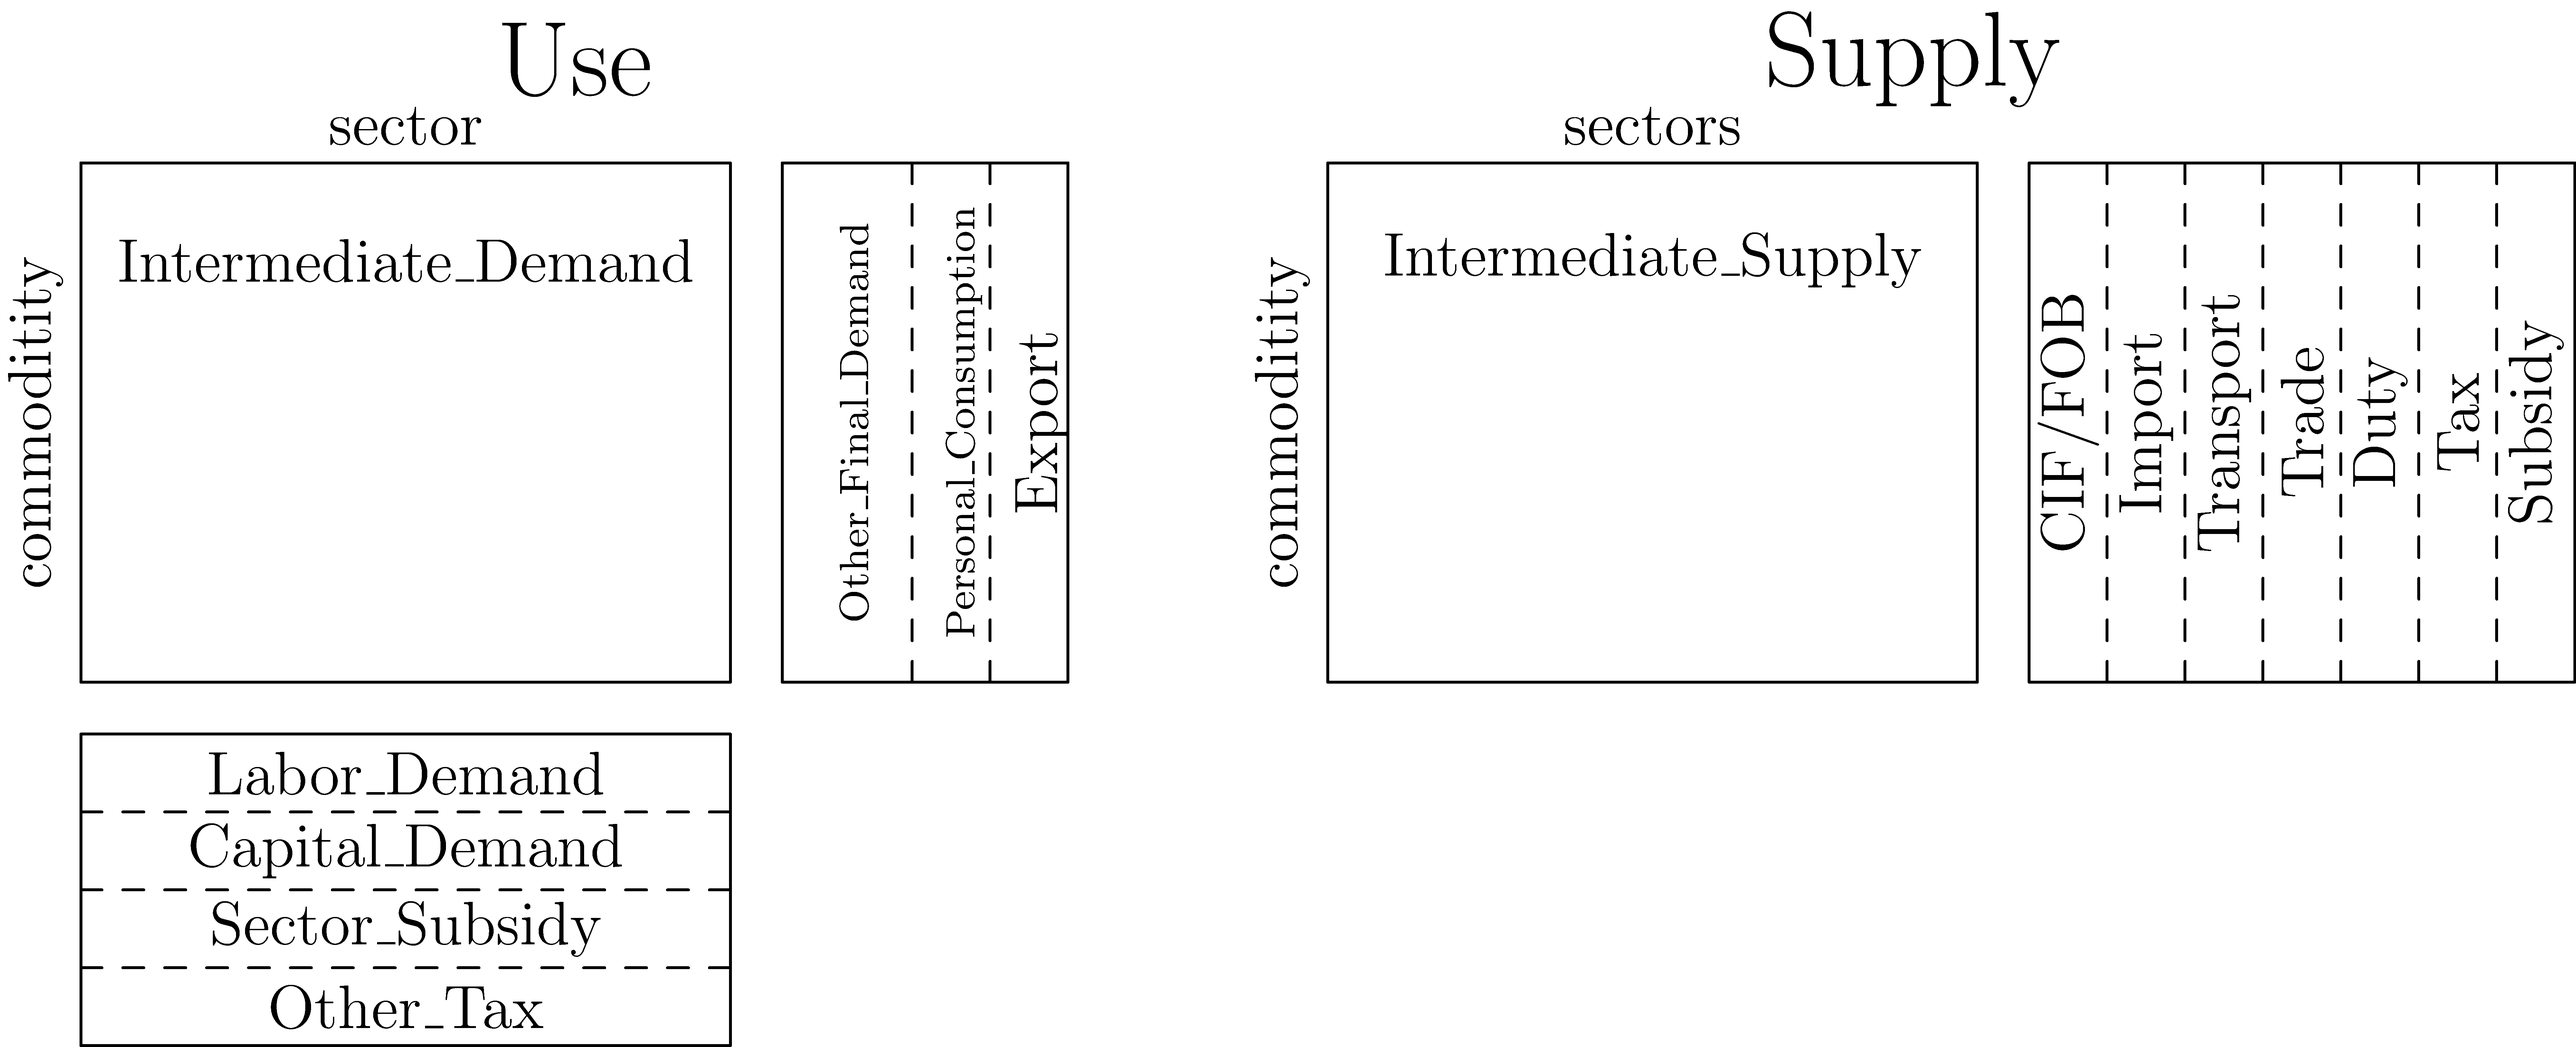
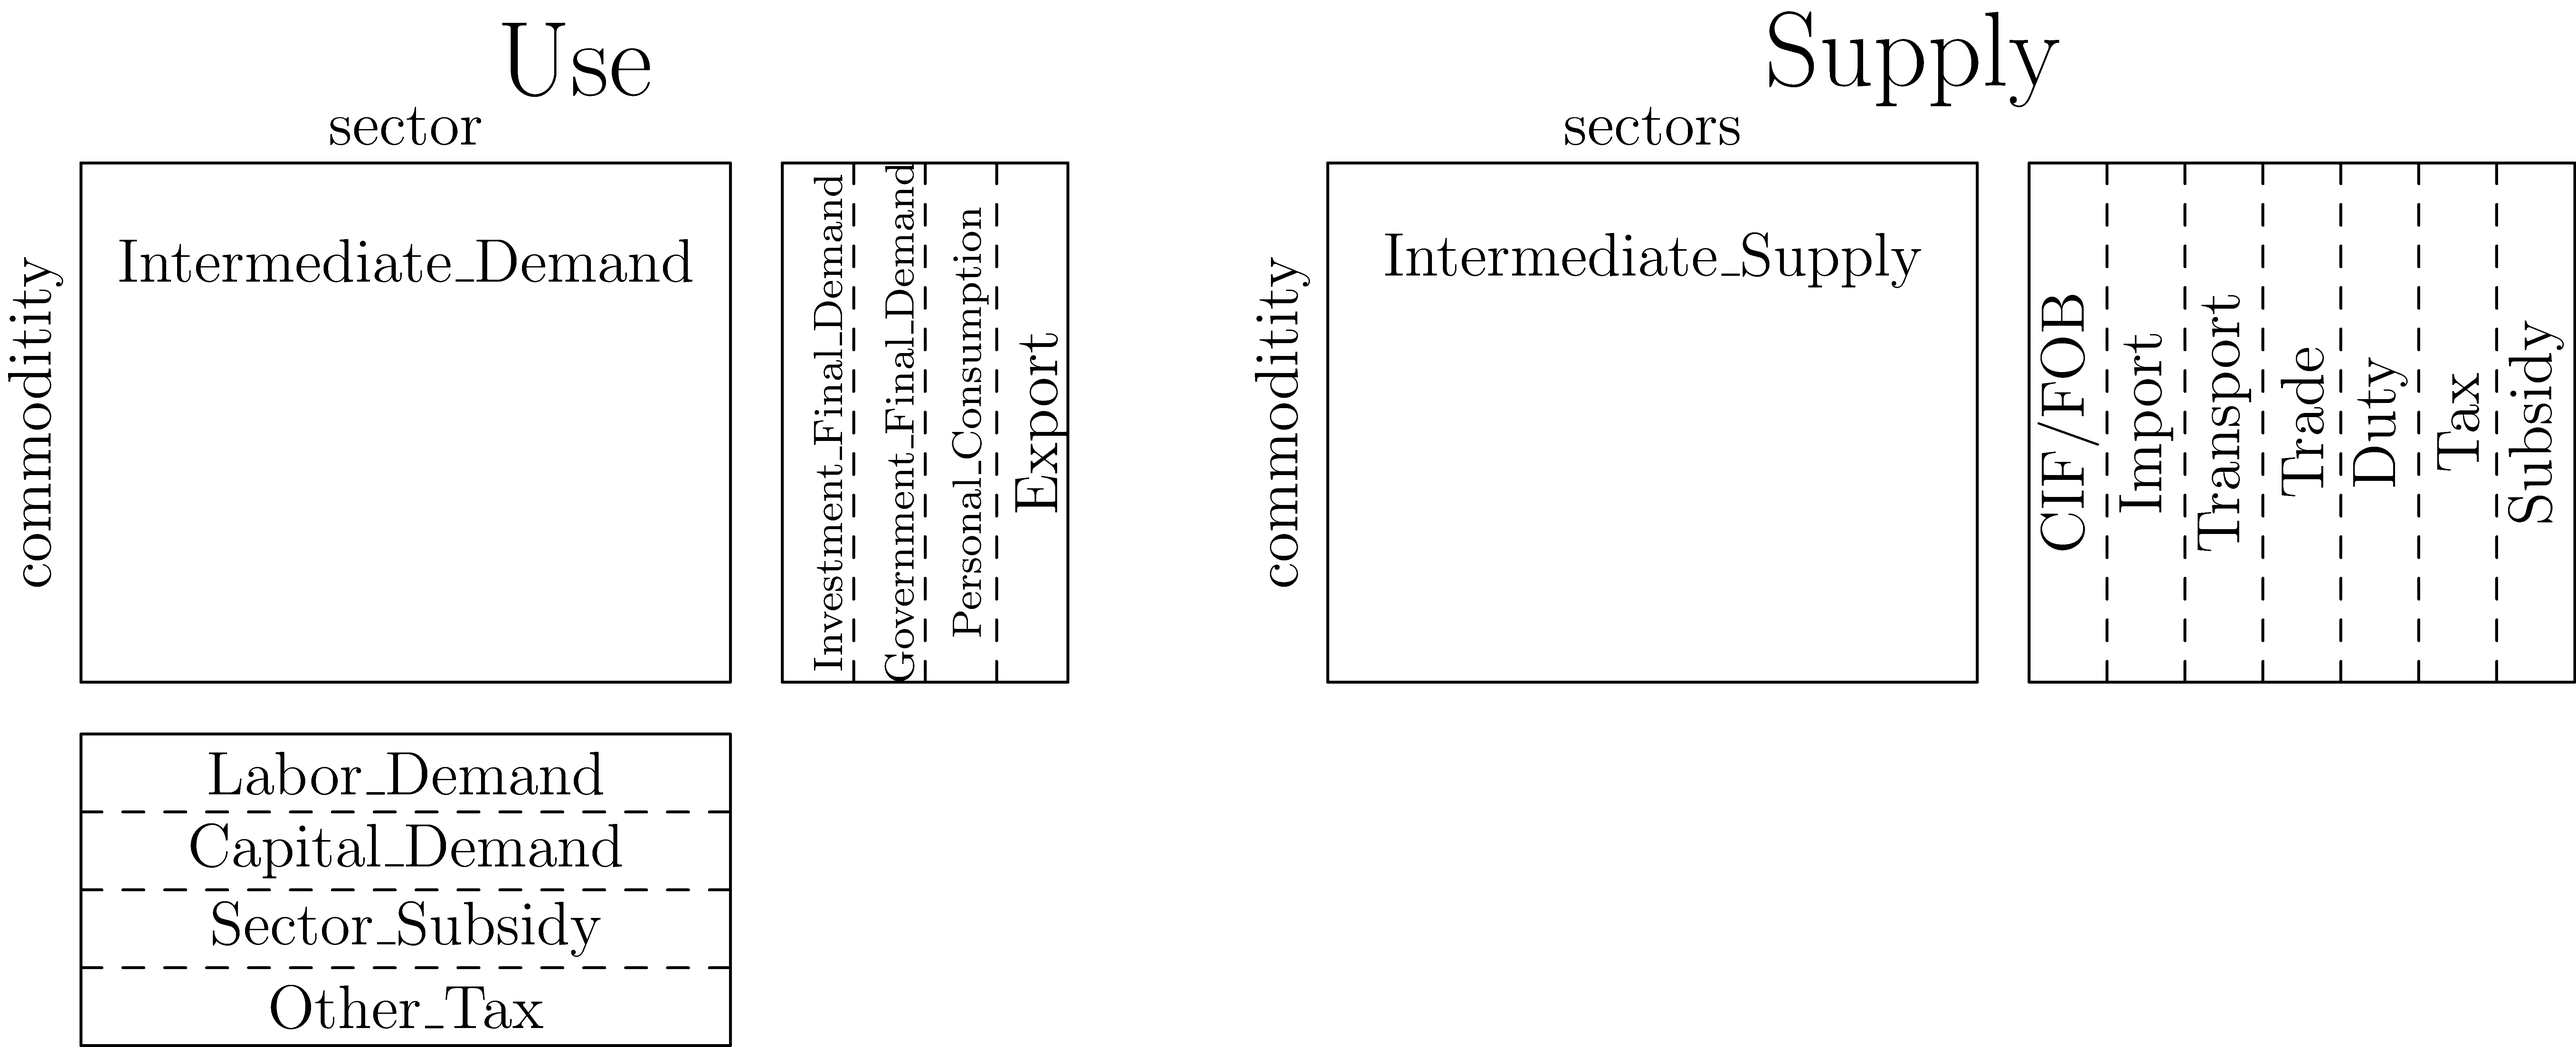
Update documentation

Changed region(s): [[0.3125, 0.1552, 0.4062, 0.652]]

diff --git a/docs/src/data/united_states/data_build.md b/docs/src/data/united_states/data_build.md
@@ -1,5 +1,6 @@
-# Data Build Process
+# United States Data
 
+This page describes the process to build the US National data. The function to build the data is [`build_us_table`](@ref).
 
 The only necessary data for the national model is the BEA Supply and Use tables. These tables have the following structure:
 
@@ -17,7 +18,7 @@ The first step to flip the sign of all the values in the Use table. We consider 
 
 We want all values in the `Intermediate` tables to have the same sign as their flow. For example, in the 2023 Use table the sector `111CA` (Farms) and commodity `Used` (Scrap, Used and secondhand goods) has a value of `18`. We expect all values in the Use table to be negative. Note, this is after flipping the sign from the previous step. In the Use table that value is -18. 
 
-To solve this issue we reverse the flow of good with the wrong sign in `Intermediate_Demand` and `Intermediate_Supply`. The `18` moves from Use to be `18` in Supply in the same commodity/sector. 
+To solve this issue we reverse the flow of good with the wrong sign in `Intermediate_Demand` and `Intermediate_Supply`. The `18` moves from Use to be `18` in Supply in the same commodity/sector. This is done using the function [`adjust_intermediate_flows`](@ref).
 
 ## Redistribute `CIF/FOB` Adjustments
 
@@ -27,13 +28,13 @@ The `CIF/FOB` column is used to adjust `Transport` margins and `Imports`. The `C
 - `5241XX` (Insurance carriers, except direct life)
 - `524200` (Insurance agencies, brokerages, and related activities)
 
-The `CIF/FOB` column is then removed from our data. 
+The `CIF/FOB` column is then removed from our data. This is done using the function [`redistribute_cif_fob`](@ref).
 
 ## Disaggregation of `Trade` and `Transport`
 
 The two marginal columns `Trade` and `Transport` are transformed into two parameters, `Margin_Demand` and `Margin_Supply`. The positive values from `Trade` and `Transport` become `Margin_Demand` and the negative values become `Margin_Supply`. We do not adjust the signs of these values, `Margin_Supply` acts like an input which means it should be negative. 
 
-We also create a new set `margin` which includes the NAICS codes for `Trade` and `Transport`. This set is the column domain of both `Margin_Demand` and `Margin_Supply`.
+We also create a new set `margin` which includes the NAICS codes for `Trade` and `Transport`. This set is the column domain of both `Margin_Demand` and `Margin_Supply`. This is done using the function [`create_margin_categories`](@ref).
 
 ## `Personal_Consumption` and `Household_Supply`
 
@@ -43,7 +44,24 @@ The `Personal_Consumption` column has a mix of positive and negative values. Thi
 
 The `Sector_Subsidy` is a new addition to the Supply/Use framework. It was introduced post-Covid to account for the large subsidies provided to various sectors of the economy. Direct from the BEA, this row is positive and it _should_ be negative. That means in our final data, this row should be positive, so we re-flip the sign. 
 
-This is in contrast to the `Subsidy` column which, direct from the BEA, is negative. Which is the correct sign so we make no adjustments. 
+This is in contrast to the `Subsidy` column which, direct from the BEA, is negative. Which is the correct sign so we make no adjustments. This is done using the function [`create_pce_categories`](@ref).
+
+## Marginal Commodities
+
+Any goods that generate only margins should have no tax or subsidy associated with them. However, in the 2009 Summary Supply table the commodity `441` has a non-zero subsidy value. To fix this we drop any tax/subsidy values associated with marginal commodities. This is done using the function [`zero_marginal_tax_subsidy`](@ref).
+
+## Readjust Negative Value Added
+
+In the US Supply/Use tables there are some negative capital demands. To fix this we adjust the value added parameters to ensure that all capital demands are non-negative. The adjustment is given by
+
+```math 
+\\sum_{va} VA(year, va, sector) \\cdot \\frac{\\sum_{year} VA(year, va, sector)}{\\sum_{year, va} VA(year, va, sector)} 
+```
+
+This is done using the function [`adjust_negative_value_added`](@ref).
+
+
+
 
 # The Final Data Structure
 

diff --git a/docs/src/data/australia/australia_data.md b/docs/src/data/australia/australia_data.md
@@ -1,0 +1,1 @@
+# Australia Data
